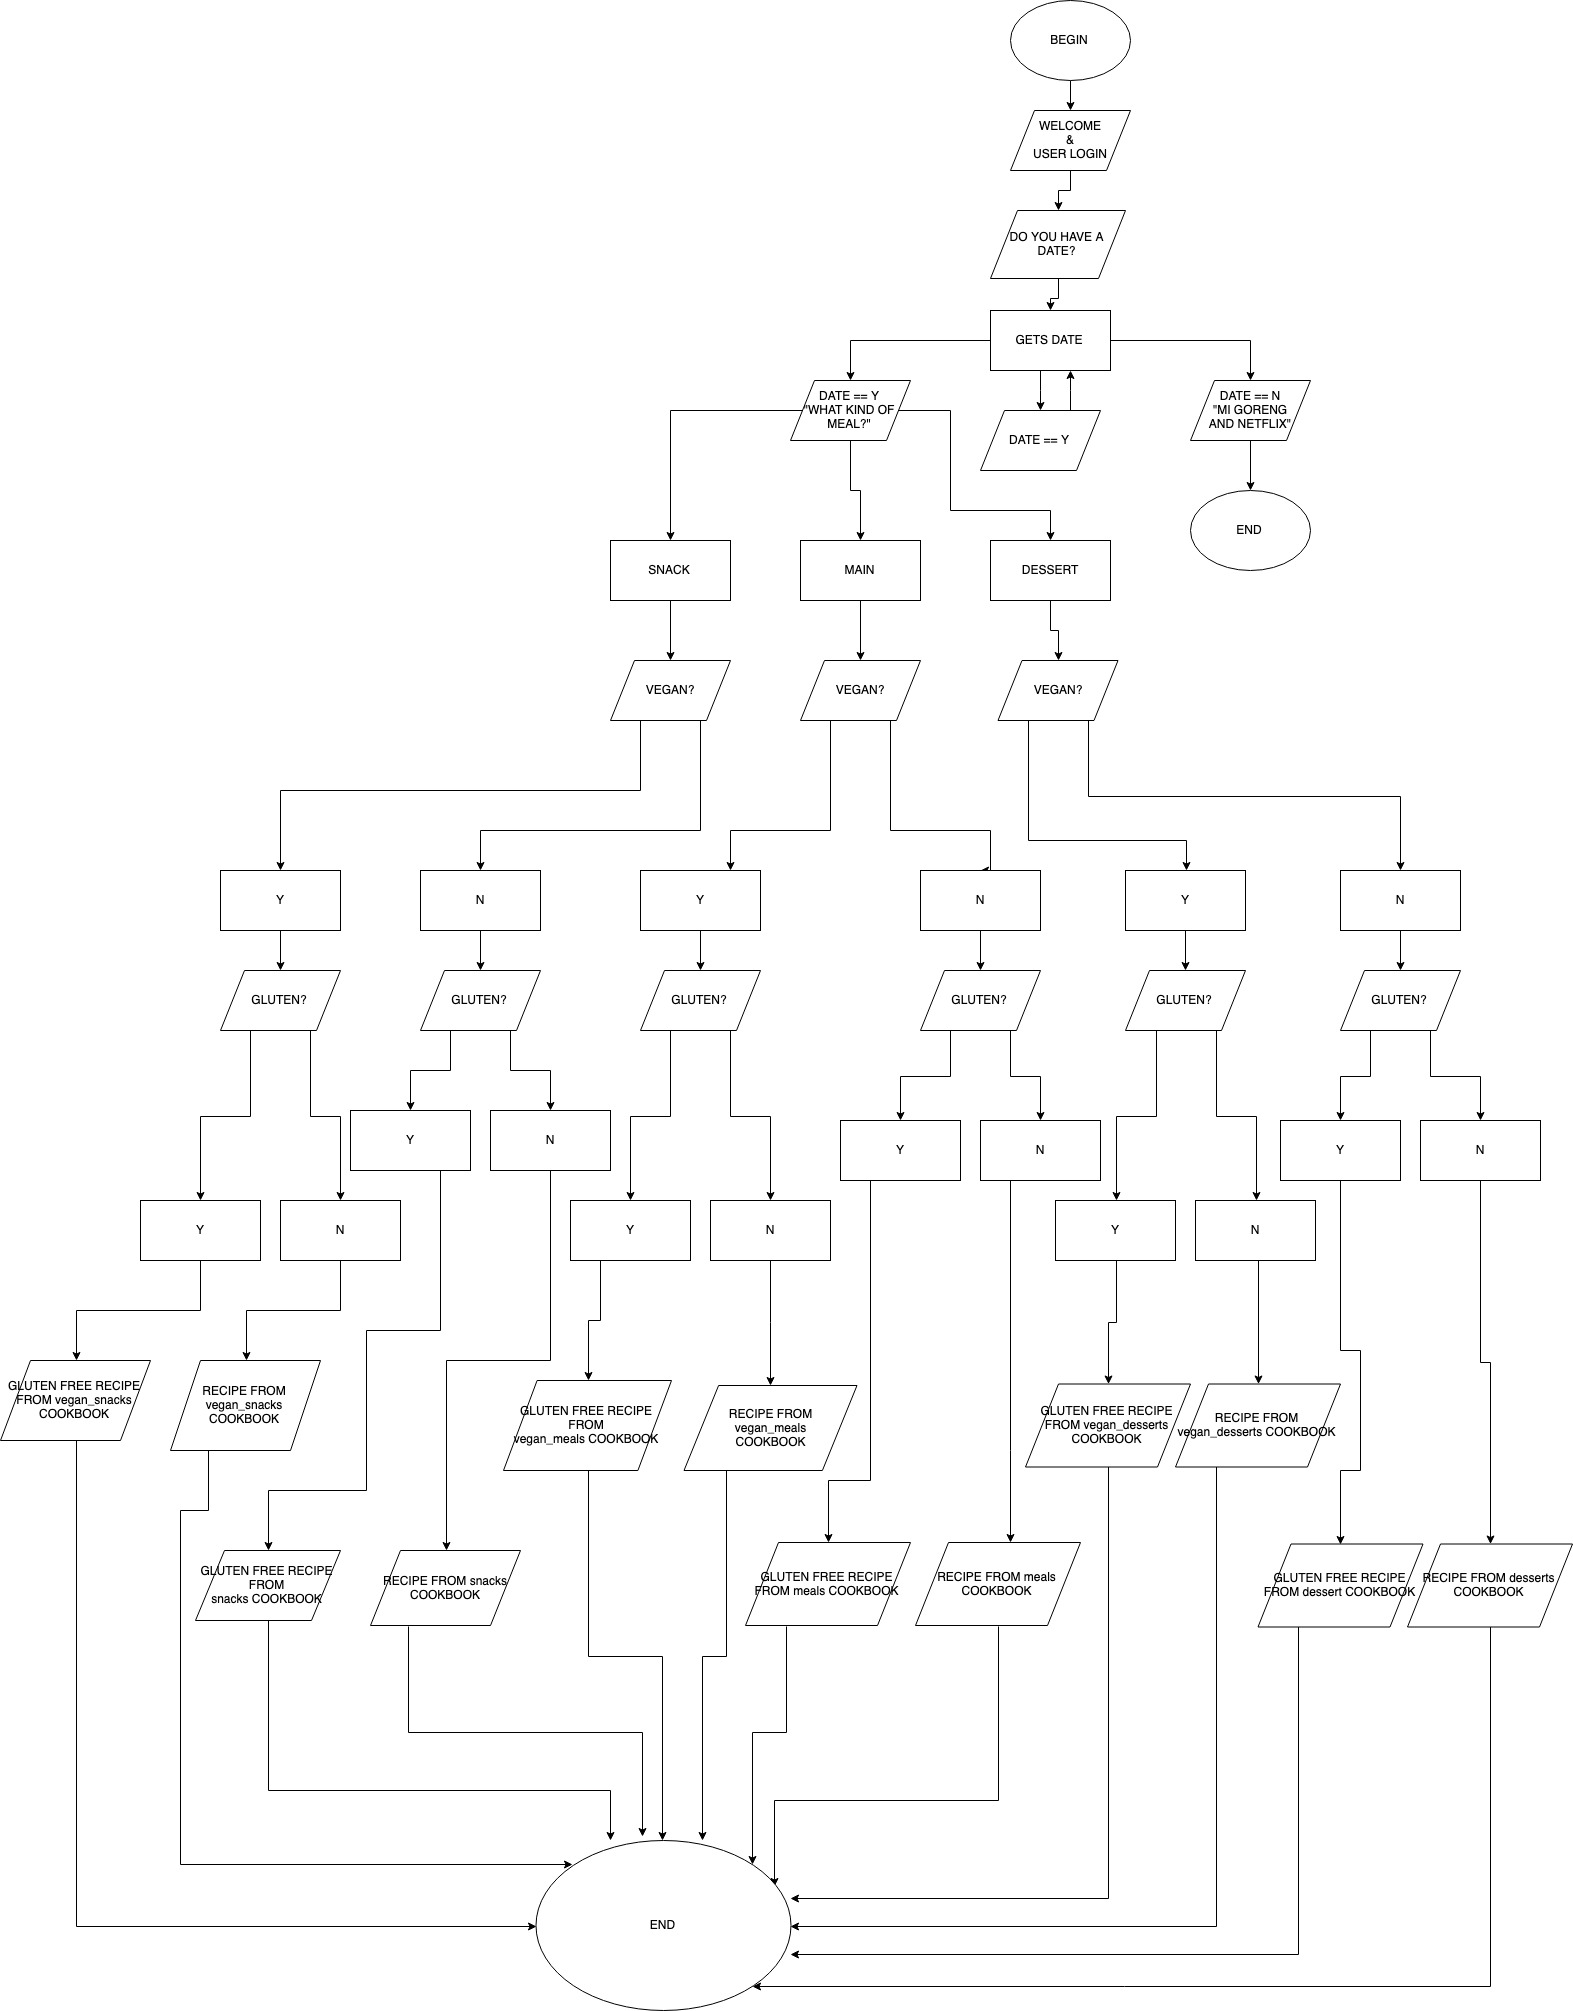
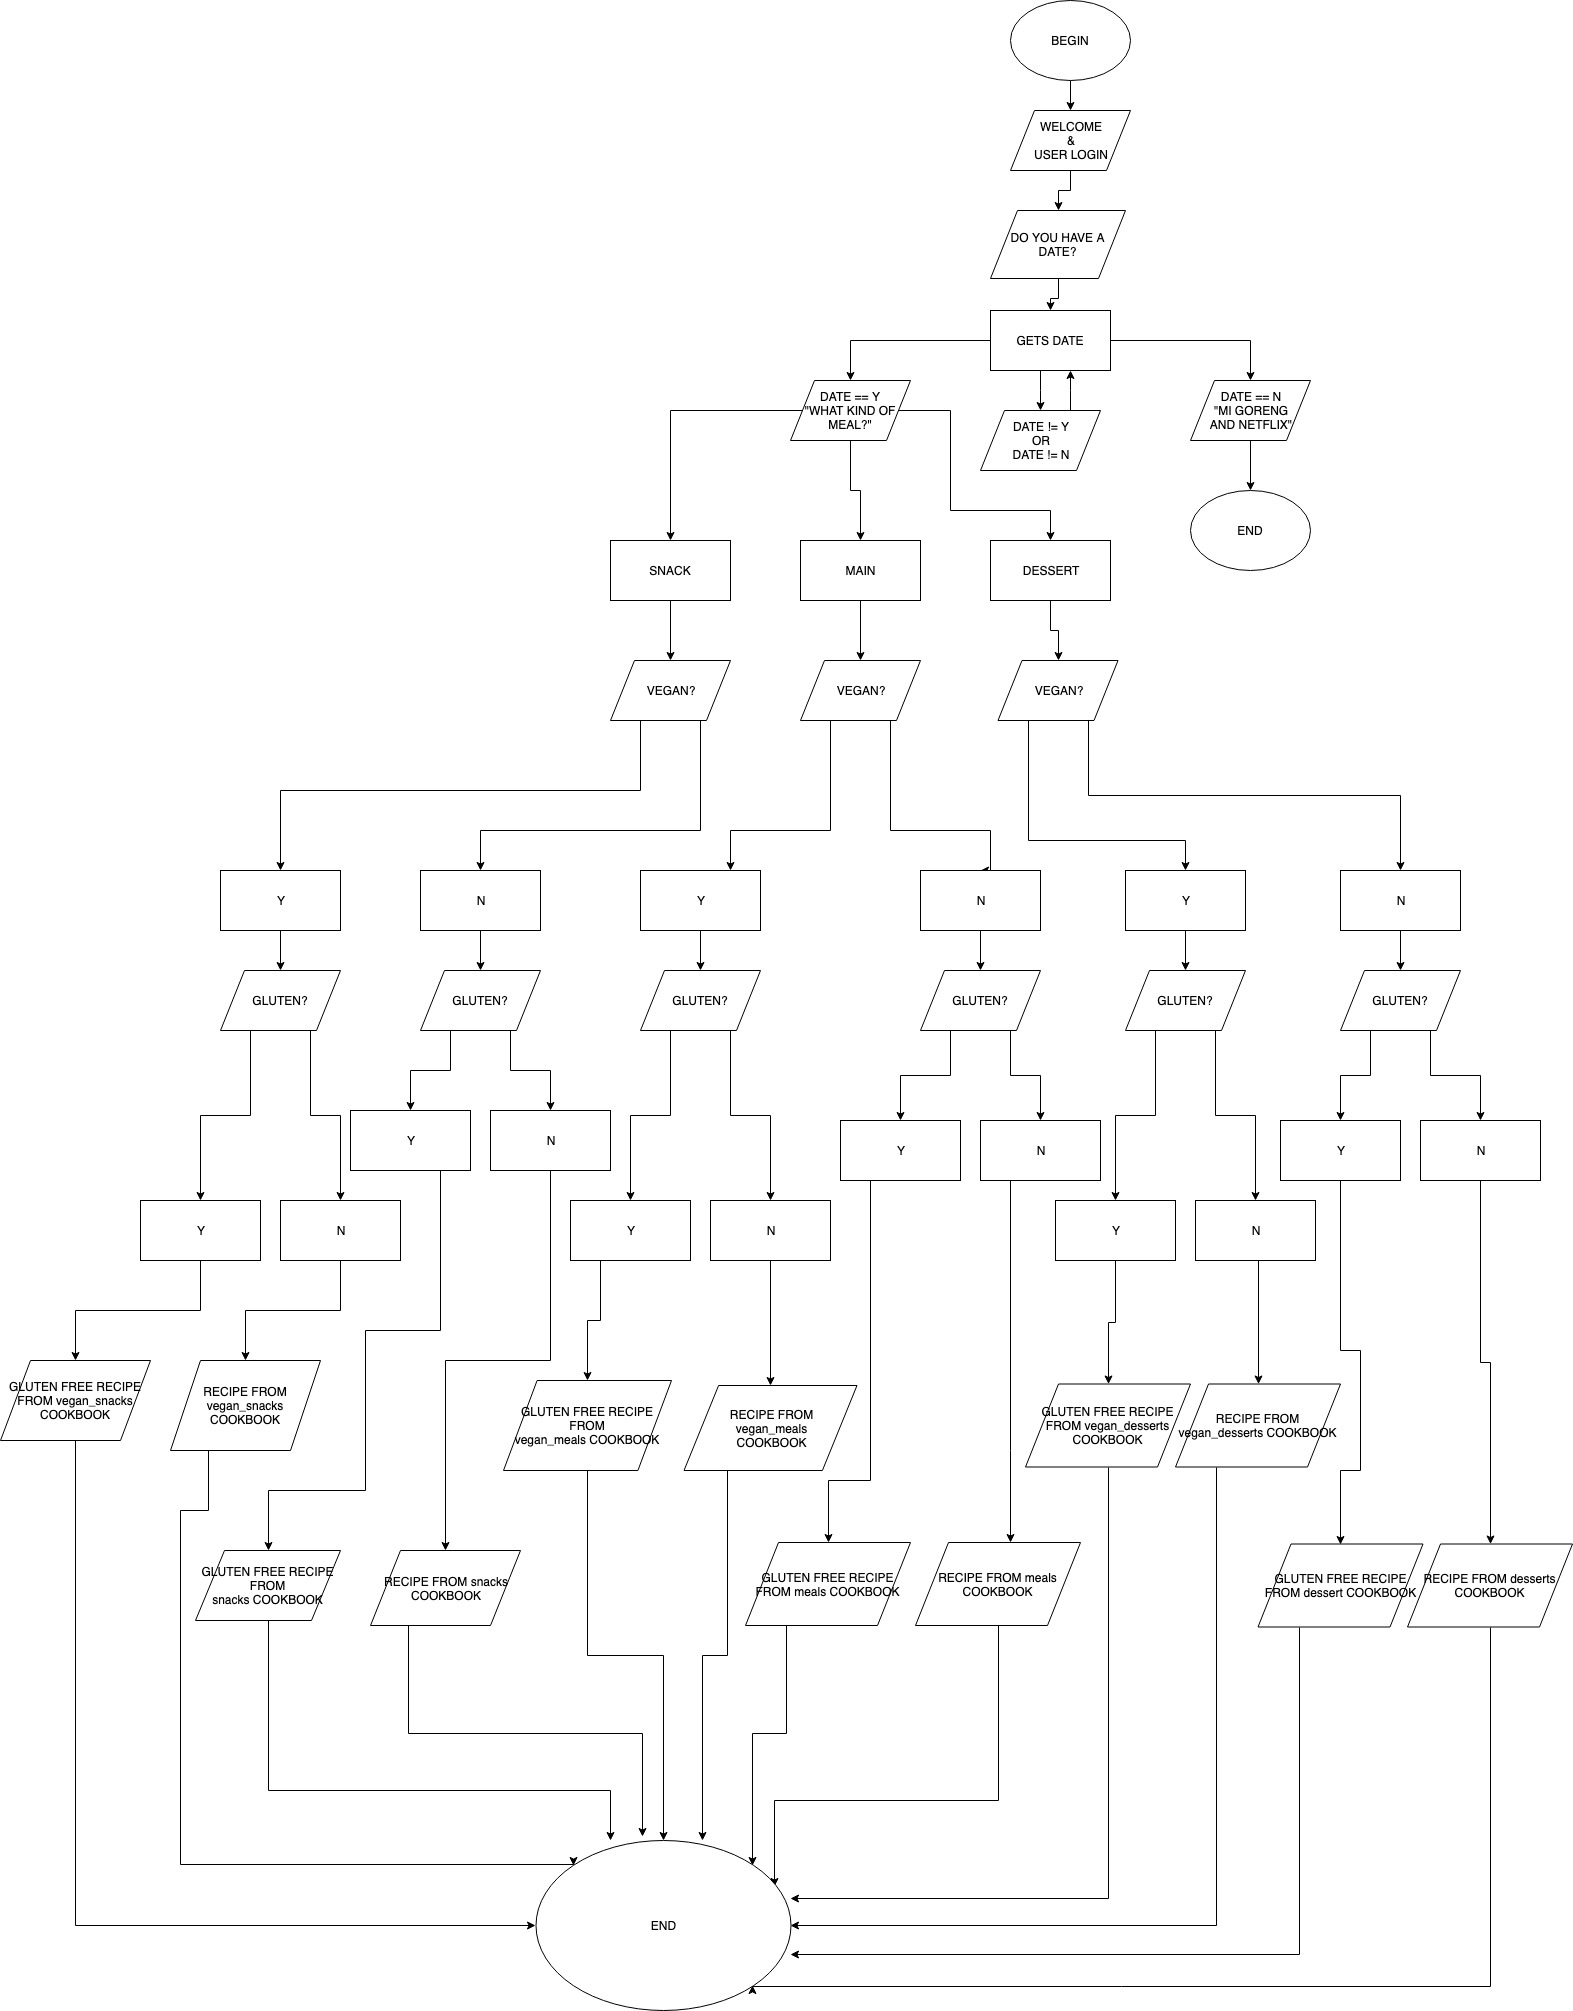
fixed a mistake in flowchart, added step in Instructions section of README.md file

diff --git a/README.md b/README.md
@@ -18,12 +18,13 @@ We would like to implement a feature that writes the ingredients to a text file 
 
 Instructions
 ****************************
-1. In terminal, make sure you are in the directory that houses the program.
-2. type "cd src" to take you to the source code files so you can run the program.
-3. Run the program by typing "ruby index.rb"
-4. Answer the prompt for your name by typing in your name.
-5. Answer the following prompts by typing 'yes' or 'no'.
-6. Receive the perfect recipe for date night!
+1. In terminal, type in 'gem install colorize'
+2. In terminal, make sure you are in the directory that houses the program.
+3. type "cd src" to take you to the source code files so you can run the program.
+4. Run the program by typing "ruby index.rb"
+5. Answer the prompt for your name by typing in your name.
+6. Answer the following prompts by typing 'yes' or 'no'.
+7. Receive the perfect recipe for date night!
 
 Screenshots of the Program
 ****************************
